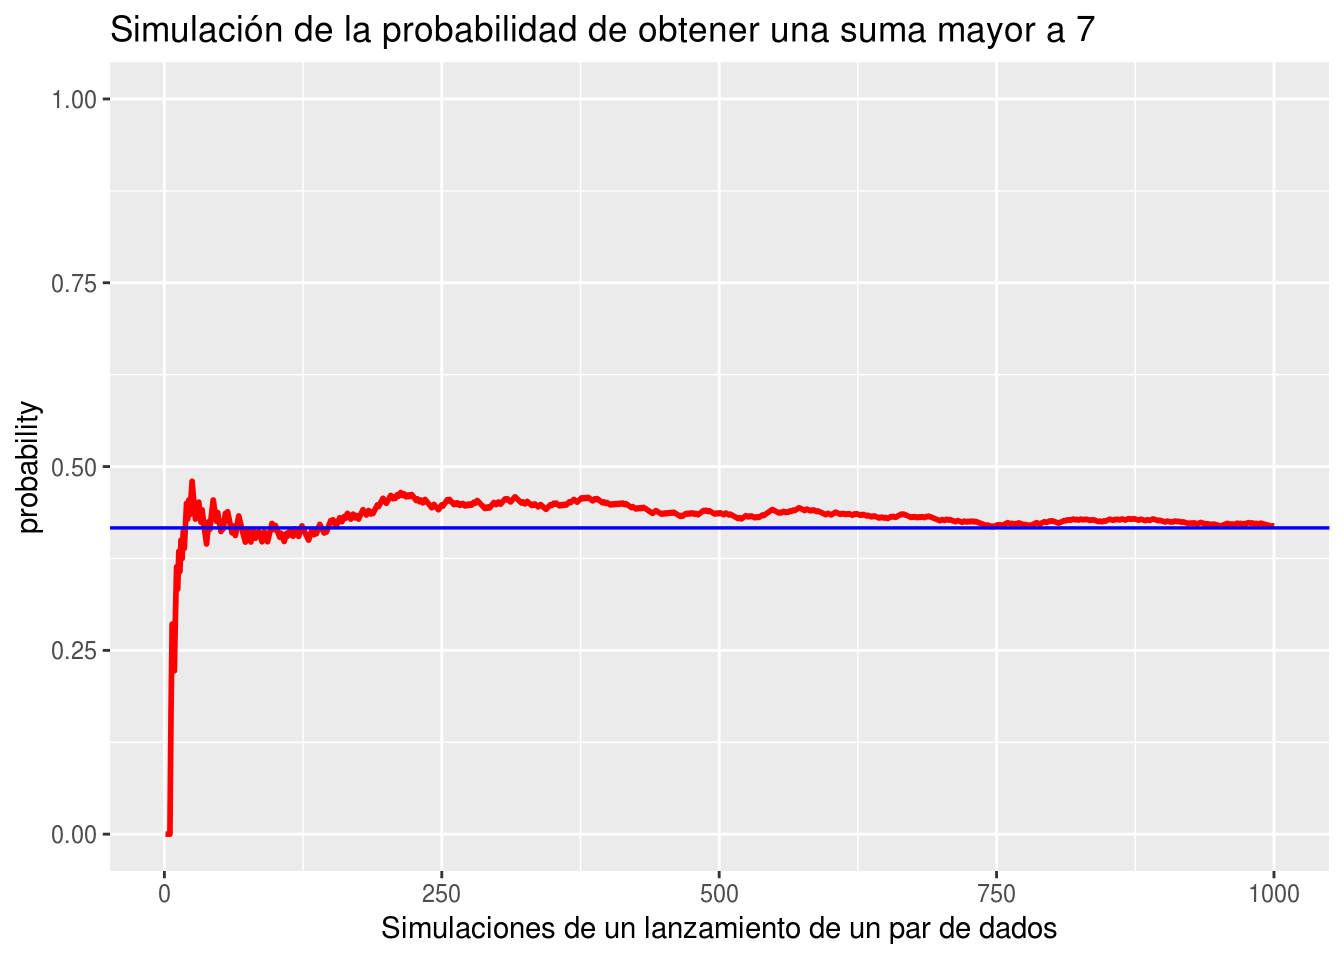
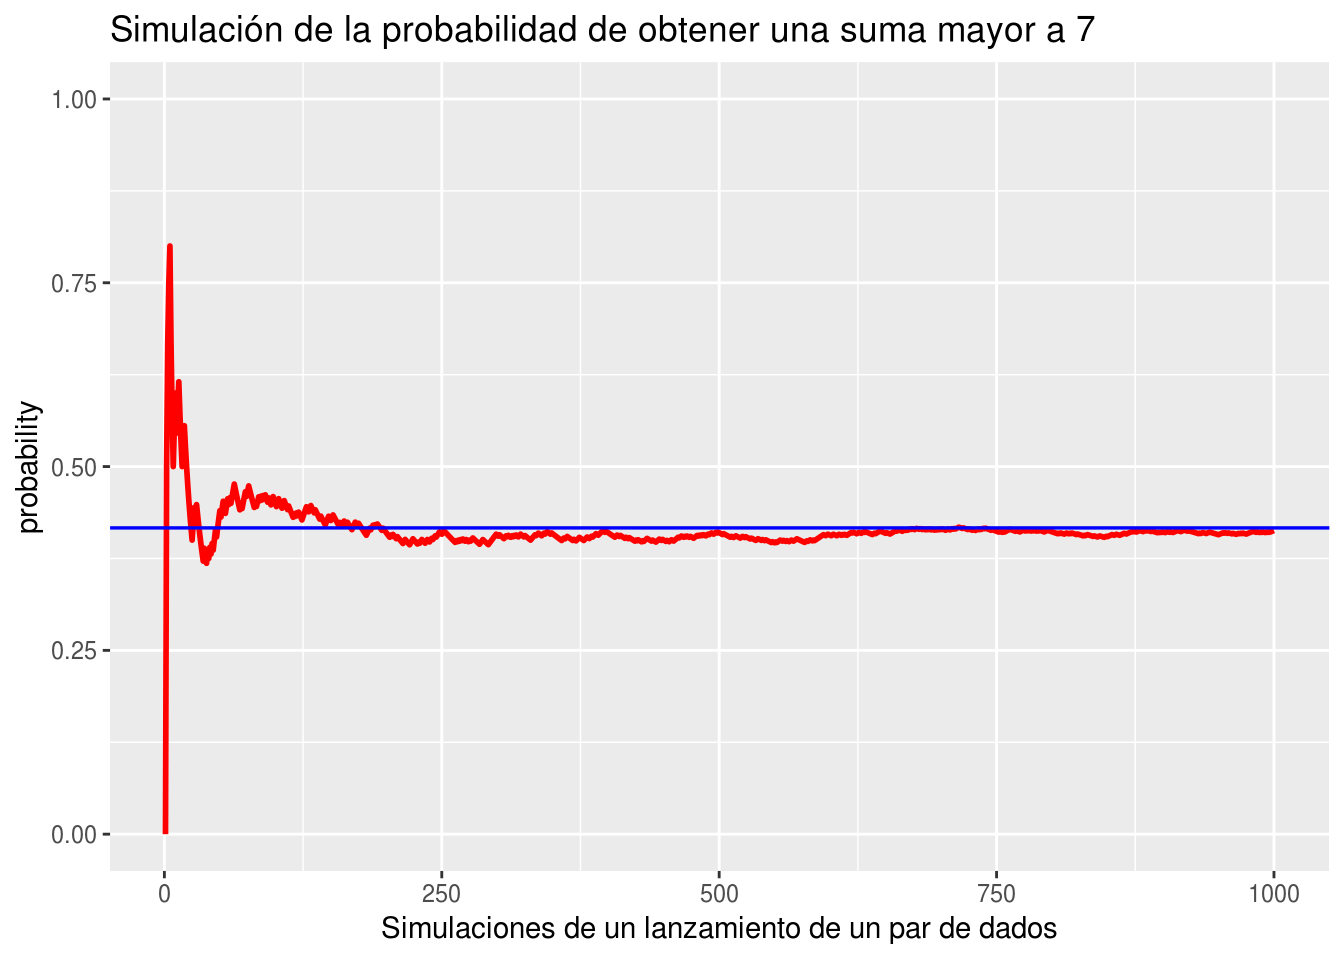
Go!

Changed region(s): [[0.0938, 0.25, 0.9688, 0.875]]

diff --git a/Intro_p.html b/Intro_p.html
@@ -573,9 +573,9 @@ $(document).ready(function () {
 </div>
 <div id="ax3.-quad-pbigbigcup_i1na_ibigsum_i1nbigpa_ibig-si-a_1-a_2-...-a_n-son-mutuamente-excluyentes." class="section level4">
 <h4><strong>AX3.</strong> <span class="math inline">\(\quad P\big(\bigcup_{i=1}^{n}A_i\big)=\sum_{i=1}^{n}\big(P(A_i)\big)\)</span> si <span class="math inline">\(A_1, A_2, ..., A_n\)</span> son mutuamente excluyentes.</h4>
-<center>
-<strong>Tenga presente: Dos eventos son mutuamente excluyentes si su intersección es vacía, es decir <span class="math inline">\(A \cap B = \emptyset\)</span></strong>
-</center>
+</div>
+<div id="tenga-presente-dos-eventos-son-mutuamente-excluyentes-si-su-interseccion-es-vacia-es-decir-a-cap-b-emptyset-entonces-pa-cap-b-0" class="section level4">
+<h4><strong>Tenga presente: Dos eventos son mutuamente excluyentes si su intersección es vacía, es decir <span class="math inline">\(A \cap B = \emptyset\)</span>, entonces <span class="math inline">\(P(A \cap B) = 0\)</span></strong></h4>
 <blockquote>
 <h4 id="propiedades-de-la-probabilidad.">Propiedades de la probabilidad.</h4>
 </blockquote>
@@ -815,9 +815,9 @@ table(sum_d)/n
 <pre class="r"><code>sum_dados(10000)</code></pre>
 <pre><code>sum_d
      2      3      4      5      6      7      8      9     10     11 
-0.0300 0.0534 0.0796 0.1096 0.1352 0.1721 0.1395 0.1141 0.0824 0.0564 
+0.0274 0.0583 0.0837 0.1088 0.1384 0.1684 0.1380 0.1128 0.0822 0.0556 
     12 
-0.0277 </code></pre>
+0.0264 </code></pre>
 </div>
 <div id="como-resultado-encontramos-una-tabla-con-las-probabilidades-para-todos-los-posibles-resultados-en-el-experimento." class="section level4">
 <h4>Como resultado encontramos una tabla con las probabilidades para todos los posibles resultados en el experimento.</h4>
@@ -849,7 +849,7 @@ graph &lt;- ggplot(data.frame(x,p.run),aes(x = x, y = p.run)) +
 <div id="ahora-ejecutemos-la-funcion-sum_dados_mayorq7-10-mil-veces." class="section level4">
 <h4>Ahora ejecutemos la función <code>sum_dados_mayorq7</code> 10 mil veces.</h4>
 <pre class="r"><code>sum_dados_mayorq7(1000)</code></pre>
-<pre><code>[1] &quot;La probabilidad de obtener una suma mayor a 7 es 0.419&quot;</code></pre>
+<pre><code>[1] &quot;La probabilidad de obtener una suma mayor a 7 es 0.413&quot;</code></pre>
 <p><img src="Intro_p_files/figure-html/unnamed-chunk-4-1.png" width="672" /> <img src="blanco.png" /></p>
 </div>
 </div>
